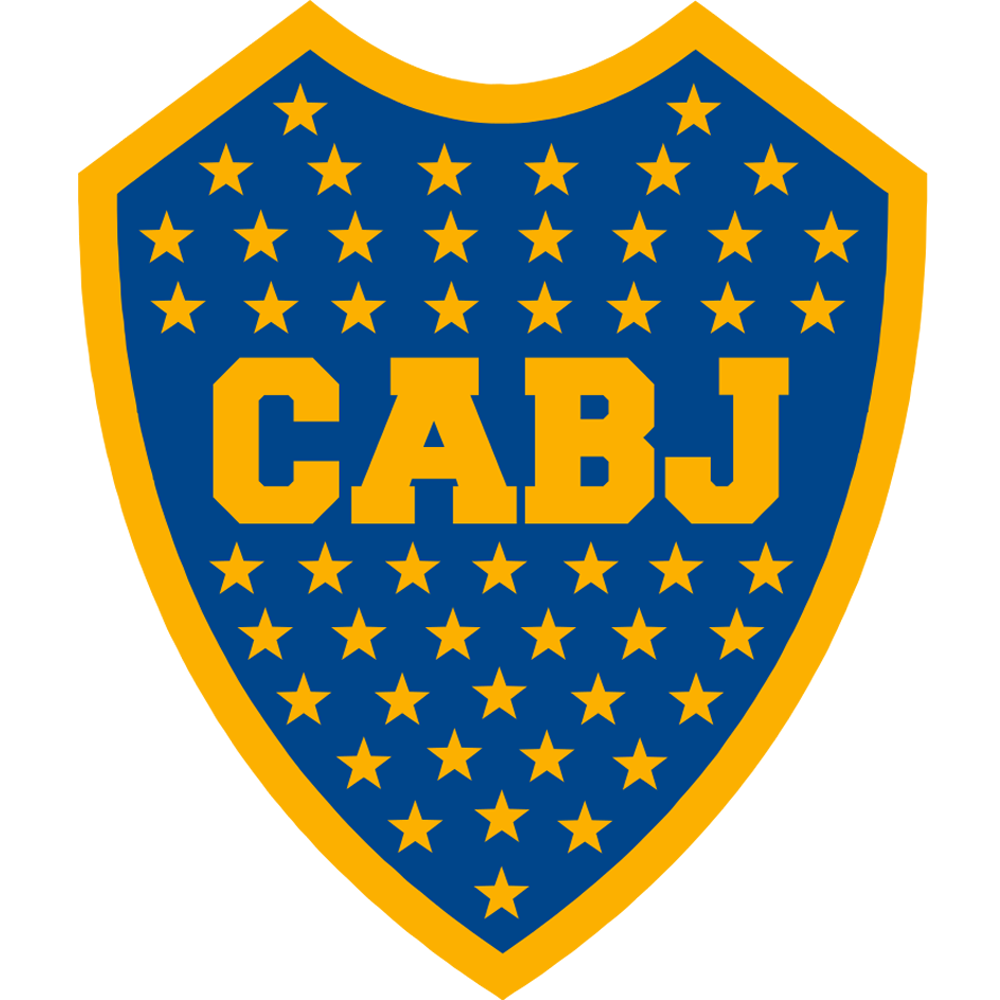
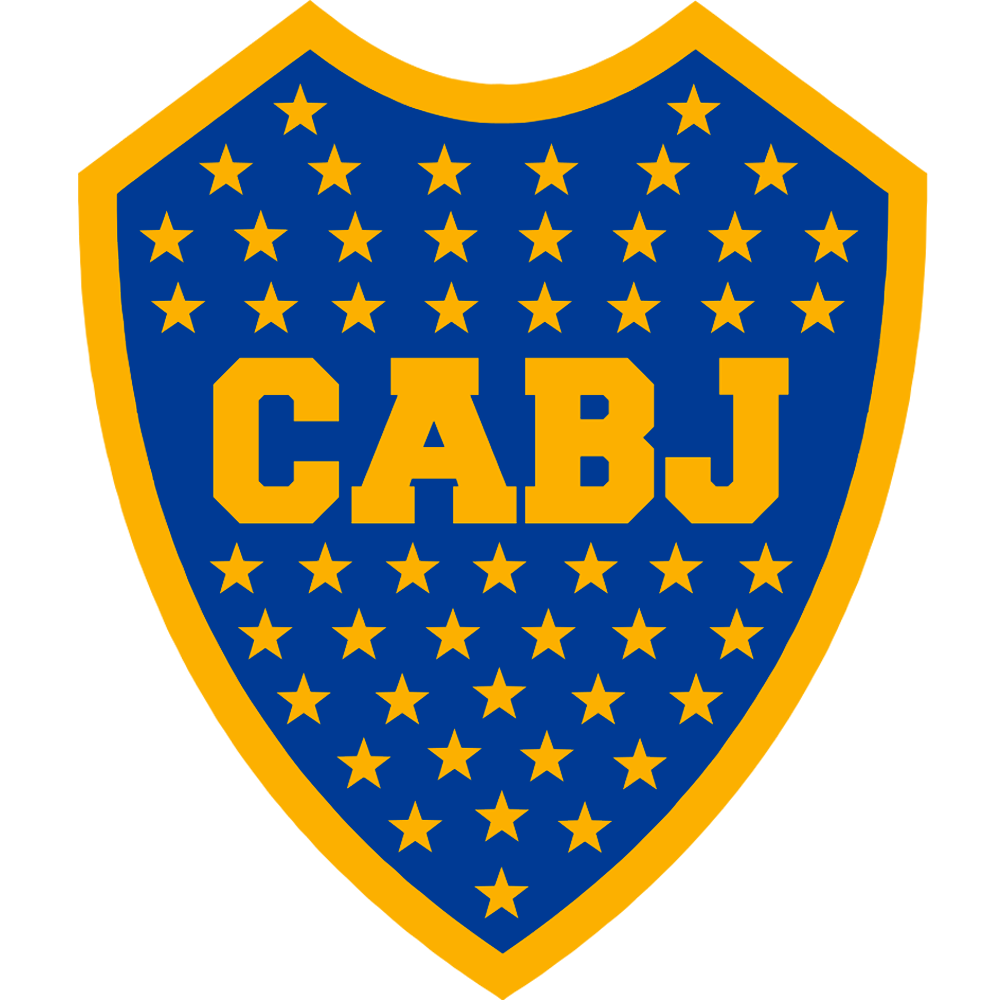
adicionando times

diff --git a/cores.js b/cores.js
@@ -48,7 +48,7 @@ function coresTimes(time, jogo = null) {
 		case "Boavista":
 			return ["#00913c", "white"];
 		case "Boca Juniors":
-			return ["#00458a", "#fcb000"];
+			return ["#003a94", "#fcb000"];
 		case "Bonsucesso":
 			return ["#1c4196", "white"];
 		case "Boston River":
@@ -97,6 +97,8 @@ function coresTimes(time, jogo = null) {
 			return ["#fde900", "#018036"];
 		case "Defensor":
 			return ["#784684", "white"];
+		case "Deportivo Lara":
+			return ["#e30613", "black"];
 		case "Deportivo Quito":
 			return ["#073756", "white"];
 		case "Deportivo Tachira":
@@ -205,6 +207,8 @@ function coresTimes(time, jogo = null) {
 			return ["#00923f", "white"];
 		case "River Plate-URU":
 			return ["#d30a11", "white"];
+		case "Rosario Central":
+			return ["#003a94", "#ffcc00"];
 		case "Sampaio Corrêa":
 			return ["#fde900", "#048439"];
 		case "Santa Cruz":
@@ -212,7 +216,7 @@ function coresTimes(time, jogo = null) {
 		case "Santos":
 			return ["white", "black"];
 		case "Santo André":
-			return ["#2d3491", "white"];
+			return ["#003a94", "white"];
 		case "São Bernardo":
 			return ["#ffdd00", "black"];
 		case "São Bento":
